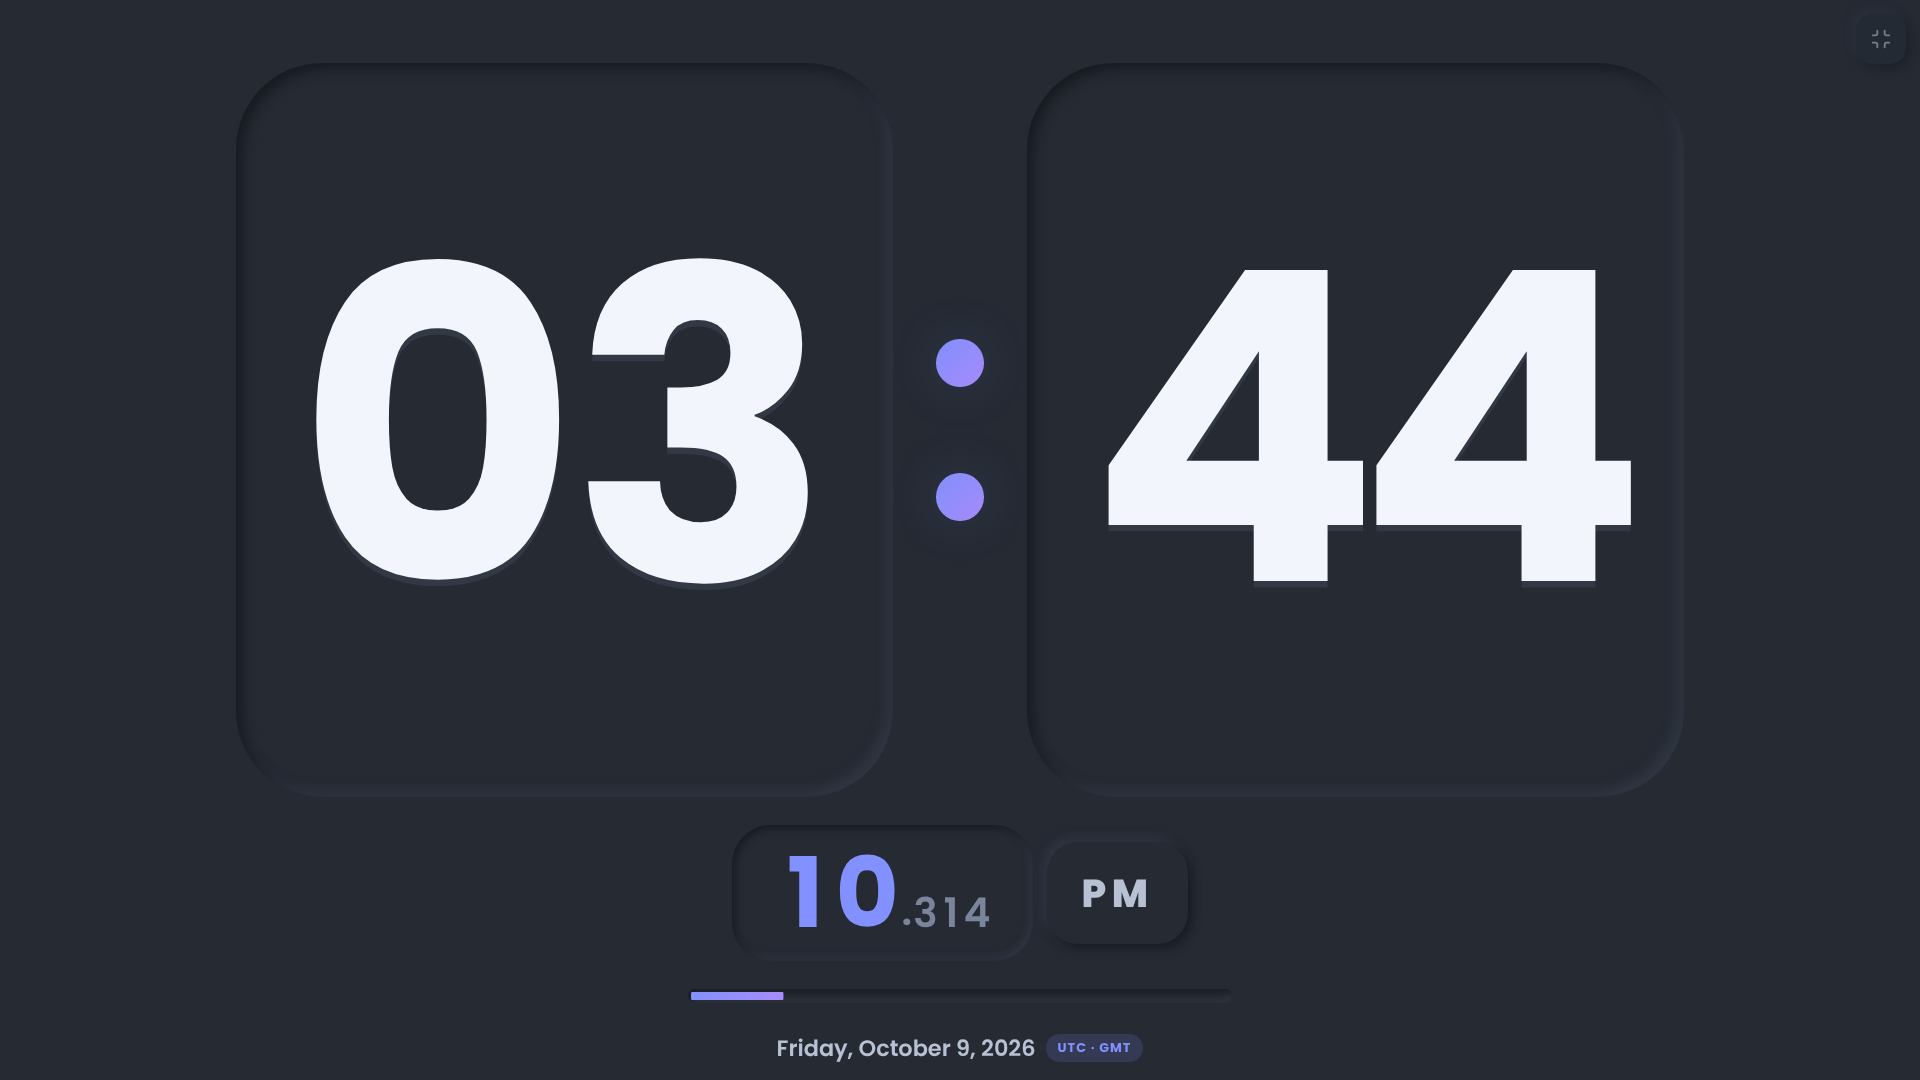
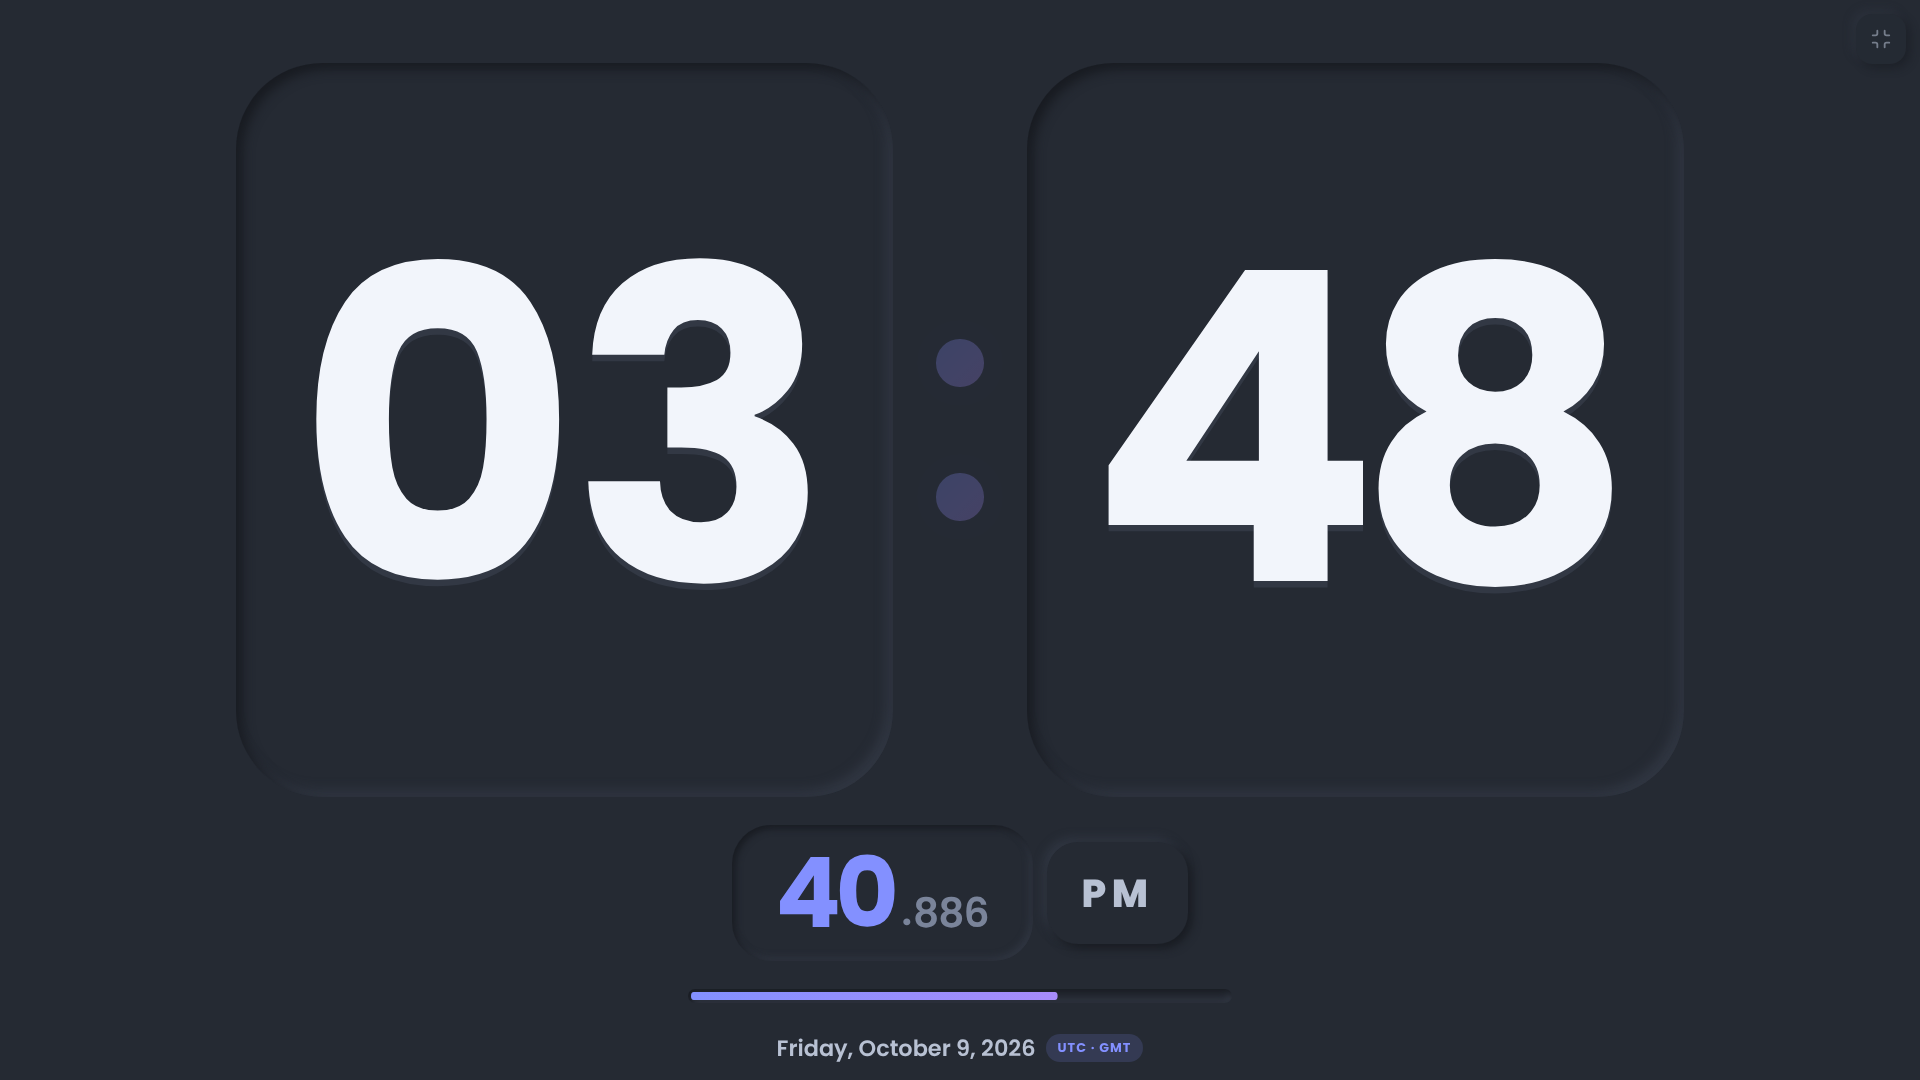
Show milliseconds in the timer again, with exact countdown
Restores the millisecond readout under the timer digits, styled as an
accent pill to match the clock's seconds/milliseconds. Rounded-up seconds
and a millisecond readout can't both be correct, so the countdown now
shows the exact remaining time: a 5-minute timer starts at 05:00.000 and
rings at 00:00.000. The target-time hint uses the same format and
updates live, so it always matches the timer.

Claude-Session: https://claude.ai/code/session_01WfvoktpLXkoSJQ23K4QYkQ

diff --git a/app.js b/app.js
@@ -455,6 +455,7 @@
     const ring = $('timer-run');
     const ringBar = $('ring-bar');
     const timerDigits = $('timer-digits');
+    const timerMs = $('timer-ms');
     const timerLabel = $('timer-label');
     const btnStart = $('btn-start');
     const btnPause = $('btn-pause');
@@ -546,14 +547,18 @@
         updateTargetHint(Date.now());
     });
 
-    // Countdown text, rounded *up* to the whole second like a real timer:
-    // it reads 05:00 the moment it starts and 00:00 exactly when it rings.
+    // Exact remaining time split into "MM:SS" (or "H:MM:SS") and ".mmm".
+    // A 5-minute timer reads 05:00.000 when it starts and 00:00.000 when it rings.
     function formatCountdown(ms) {
-        const totalSec = Math.max(0, Math.ceil(ms / 1000));
+        ms = Math.max(0, Math.floor(ms));
+        const totalSec = Math.floor(ms / 1000);
         const h = Math.floor(totalSec / 3600);
         const m = Math.floor((totalSec % 3600) / 60);
         const sec = totalSec % 60;
-        return h > 0 ? `${h}:${pad(m)}:${pad(sec)}` : `${pad(m)}:${pad(sec)}`;
+        return {
+            main: h > 0 ? `${h}:${pad(m)}:${pad(sec)}` : `${pad(m)}:${pad(sec)}`,
+            ms: '.' + pad(ms % 1000, 3),
+        };
     }
 
     function updateTargetHint(now) {
@@ -565,7 +570,8 @@
             targetHint.textContent = 'That time has already passed';
             targetHint.classList.add('bad');
         } else {
-            targetHint.textContent = `Countdown: ${formatCountdown(target - now)}`;
+            const c = formatCountdown(target - now);
+            targetHint.textContent = `Countdown: ${c.main}${c.ms}`;
             targetHint.classList.remove('bad');
         }
     }
@@ -710,8 +716,9 @@
         const rem = timer.state === 'running' ? Math.min(timer.total, Math.max(0, timer.endAt - now))
             : timer.state === 'paused' ? timer.remaining : 0;
 
-        const str = formatCountdown(rem);
+        const { main: str, ms } = formatCountdown(rem);
         renderDigits(timerDigits, str);
+        renderDigits(timerMs, ms);
         timerDigits.dataset.len = str.length;
 
         const progress = timer.total > 0 ? Math.min(1, rem / timer.total) : 0;
@@ -735,7 +742,6 @@
     // ---------------------------------------------------------------
     // Main loop
     // ---------------------------------------------------------------
-    let lastHintSec = -1;
 
     function tick() {
         const now = Date.now();
@@ -745,8 +751,7 @@
             if (now >= timer.endAt) finishTimer();
             else renderTimerDisplay(now);
         } else if (timer.state === 'idle' && settings.mode === 'target' && !viewTimer.hidden) {
-            const s = Math.floor(now / 1000);
-            if (s !== lastHintSec) { lastHintSec = s; updateTargetHint(now); }
+            updateTargetHint(now);
         }
     }
 

diff --git a/styles.css b/styles.css
@@ -584,6 +584,15 @@ select option { background: var(--bg); color: var(--text); }
 .timer-digits[data-len="7"] { font-size: 15.5cqi; }
 .timer-digits[data-len="8"] { font-size: 14cqi; }
 .timer-digits[data-len="9"] { font-size: 12.5cqi; }
+.timer-ms-pill {
+    padding: .18em .55em;
+    border-radius: .5em;
+    font-size: 7cqi;
+}
+.timer-ms-pill .digits { color: var(--accent); font-weight: 700; }
+.ring.is-warn .timer-ms-pill .digits { color: var(--warn); }
+.ring.is-done .timer-ms-pill .digits { color: var(--danger); }
+
 .timer-label {
     min-height: 1.3em;
     font-size: 4.2cqi;

diff --git a/index.html b/index.html
@@ -191,6 +191,7 @@
                         </svg>
                         <div class="ring-inner neu-in" id="ring-inner">
                             <div id="timer-digits" class="digits timer-digits" role="timer">00:00</div>
+                            <div class="timer-ms-pill neu-in-sm"><span id="timer-ms" class="digits">.000</span></div>
                             <div id="timer-label" class="timer-label">&nbsp;</div>
                         </div>
                     </div>

diff --git a/sw.js b/sw.js
@@ -1,6 +1,6 @@
 // Clucky service worker — offline support.
 // Bump VERSION whenever you change any app file so installed apps pick up the update.
-const VERSION = 'clucky-v3';
+const VERSION = 'clucky-v4';
 const FONT_CACHE = 'clucky-fonts';
 
 const SHELL = [
